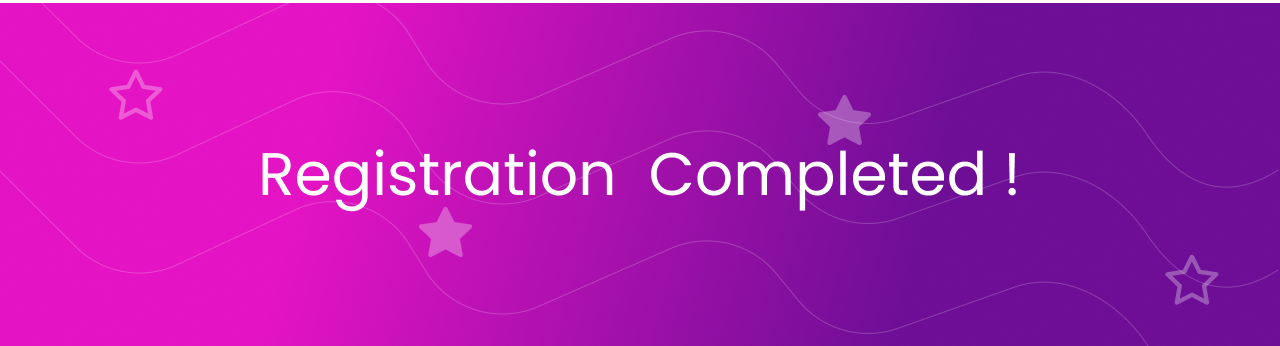
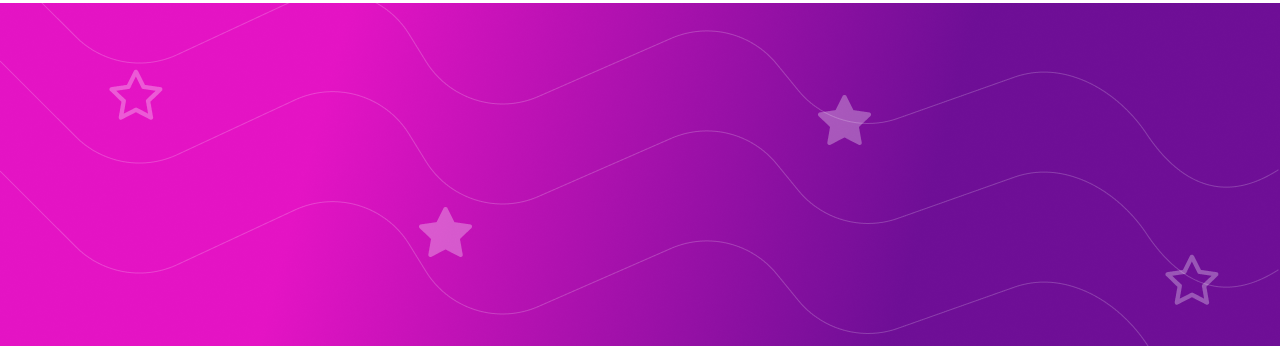
final changes to reg success

Changed region(s): [[0.1875, 0.4335, 0.8125, 0.6069]]

diff --git a/metanet/src/app/usercomponents/registrationsuccess/registrationsuccess.component.html b/metanet/src/app/usercomponents/registrationsuccess/registrationsuccess.component.html
@@ -4,11 +4,11 @@
 <!-- main -->
 <div class="bg-background pb-6">
 
-<div class="relative h-96 md:h-[27rem] bg-background flex items-center justify-end text-center">
+<div class="relative h-96 md:h-[27rem] bg-background flex items-center justify-center text-center">
     <img src="assets/images/Register complete.png" alt="abstract-mountain-background" class="absolute w-full h-full object-cover bg-repeat opacity-85" />
-    <!--<div class="relative z-10 items-center mr-4 md:mr-16 text-left px-4">
-      <p class="text-2xl md:text-5xl  font-extrabold mb-5 text-metawhite opacity-80 ">Registration Completed ! </p>
-    </div> -->
+    <div class="relative z-10 items-center md:mr-16 text-center px-0">
+      <p class="text-2xl md:text-5xl font-extrabold mb-5 text-metawhite opacity-80 ">Registration Completed ! </p>
+    </div>
 </div>
 
 
